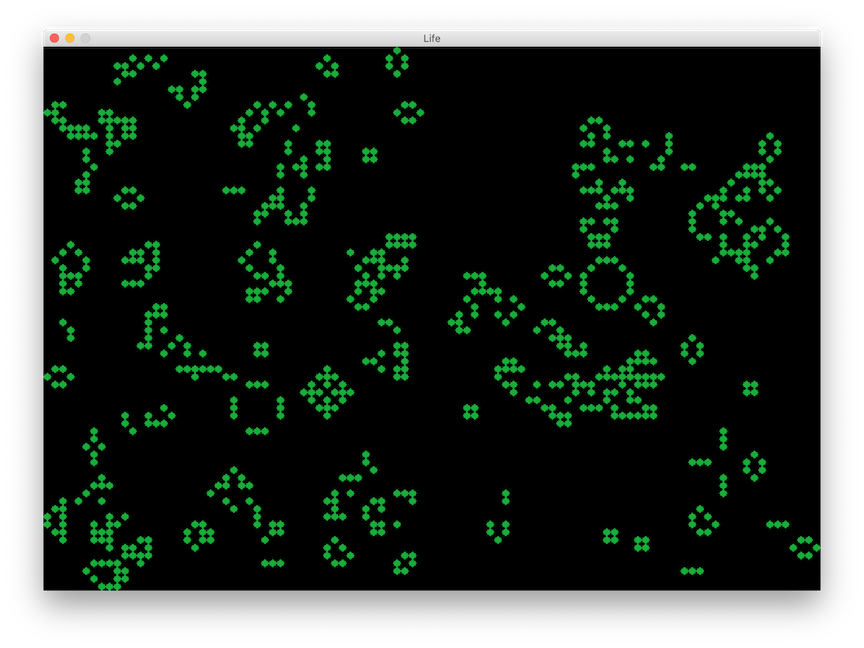
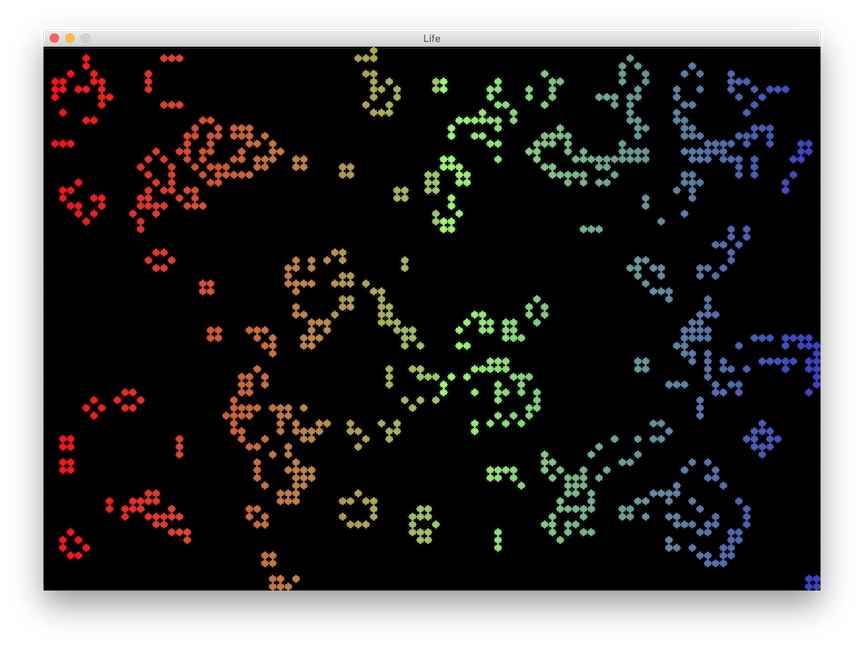
Add a color easter egg

diff --git a/python/main.py b/python/main.py
@@ -4,8 +4,9 @@
 # https://en.wikipedia.org/wiki/Conway%27s_Game_of_Life
 
 # 3rd party
-import pygame
+import math
 import random
+import pygame
 
 # Project level
 import cell_states
@@ -22,7 +23,7 @@ cell_count_down = int(screen_height / cell_size)
 
 
 # Renders a specific world state to the window.
-def renderWorld(win, world):
+def renderWorld(win, world, color_type):
     # Iterate over our 2D array and draw circles where there is an Alive state.
     for row in range(len(world)):
         for col in range(len(world[row])):
@@ -38,7 +39,53 @@ def renderWorld(win, world):
             center_x = col * cell_size + radius
             center_y = row * cell_size + radius
 
-            pygame.draw.circle(win, cell_color, (center_x, center_y), radius)
+            # Color easter egg
+            color = None
+            if color_type == 0: color = cell_color
+            elif color_type == 1: color = getGradientCellColor(col)
+            elif color_type == 2: color = getRandomCellColor()
+
+            pygame.draw.circle(win, color, (center_x, center_y), radius)
+
+
+# Get a fancy gradient color based on the column positioning
+# TODO: Maybe these color helpers should go elsewhere...
+def getGradientCellColor(col):
+    # Far left should be (255, 0, 0)
+    # Middle should be (0, 255, 0)
+    # Far right should be (0, 0, 255)
+
+    # Distribution is basically how much a given color should increase or
+    # decrease by per column.
+    distribution = math.floor(255 / cell_count_across)
+
+    # Red will decrease from left to right, starting at around 255.
+    red = 255 - (col * distribution)
+
+    # Blue will increase from left to right, starting at 0.
+    blue = col * distribution
+
+    # Green will increase from left to right until the middle column and then
+    # Decrease from left to right after the middle column.
+    middle_column = math.floor(cell_count_across / 2)
+    green = None
+    if (col <= middle_column):
+        green = col * distribution * 2
+    else:
+        # col - middle_column here makes the middle column act as 0 (the far
+        # left in other words).
+        green = 255 - ((col - middle_column) * distribution * 2)
+
+    return (red, green, blue)
+
+
+# Get a random color for the alive cell. This is much more straight forward.
+def getRandomCellColor():
+    red = random.randint(0, 255)
+    green = random.randint(0, 255)
+    blue = random.randint(0, 255)
+
+    return (red, green, blue)
 
 
 # The main function, which handles setting up the window and calling all other
@@ -51,12 +98,20 @@ def main():
 
     world = world_helper.generateSeed(cell_count_across, cell_count_down)
 
+    # Easter egg...
+    color_type = 0
+
     run = True
     while run:
         # Events listener. Right now it's only listening for QUIT
         for event in pygame.event.get():
             if event.type == pygame.QUIT:
                 run = False
+            elif event.type == pygame.KEYDOWN:
+                if event.key == pygame.K_q:
+                    run = False
+                elif event.key == pygame.K_SPACE:
+                    color_type = (color_type + 1) % 3
 
         # Clear the screen
         win.fill((0, 0, 0))
@@ -65,7 +120,7 @@ def main():
         world_helper.updateWorld(world)
 
         # Render it
-        renderWorld(win, world)
+        renderWorld(win, world, color_type)
 
         pygame.display.update()
         pygame.time.delay(tick_delay)
